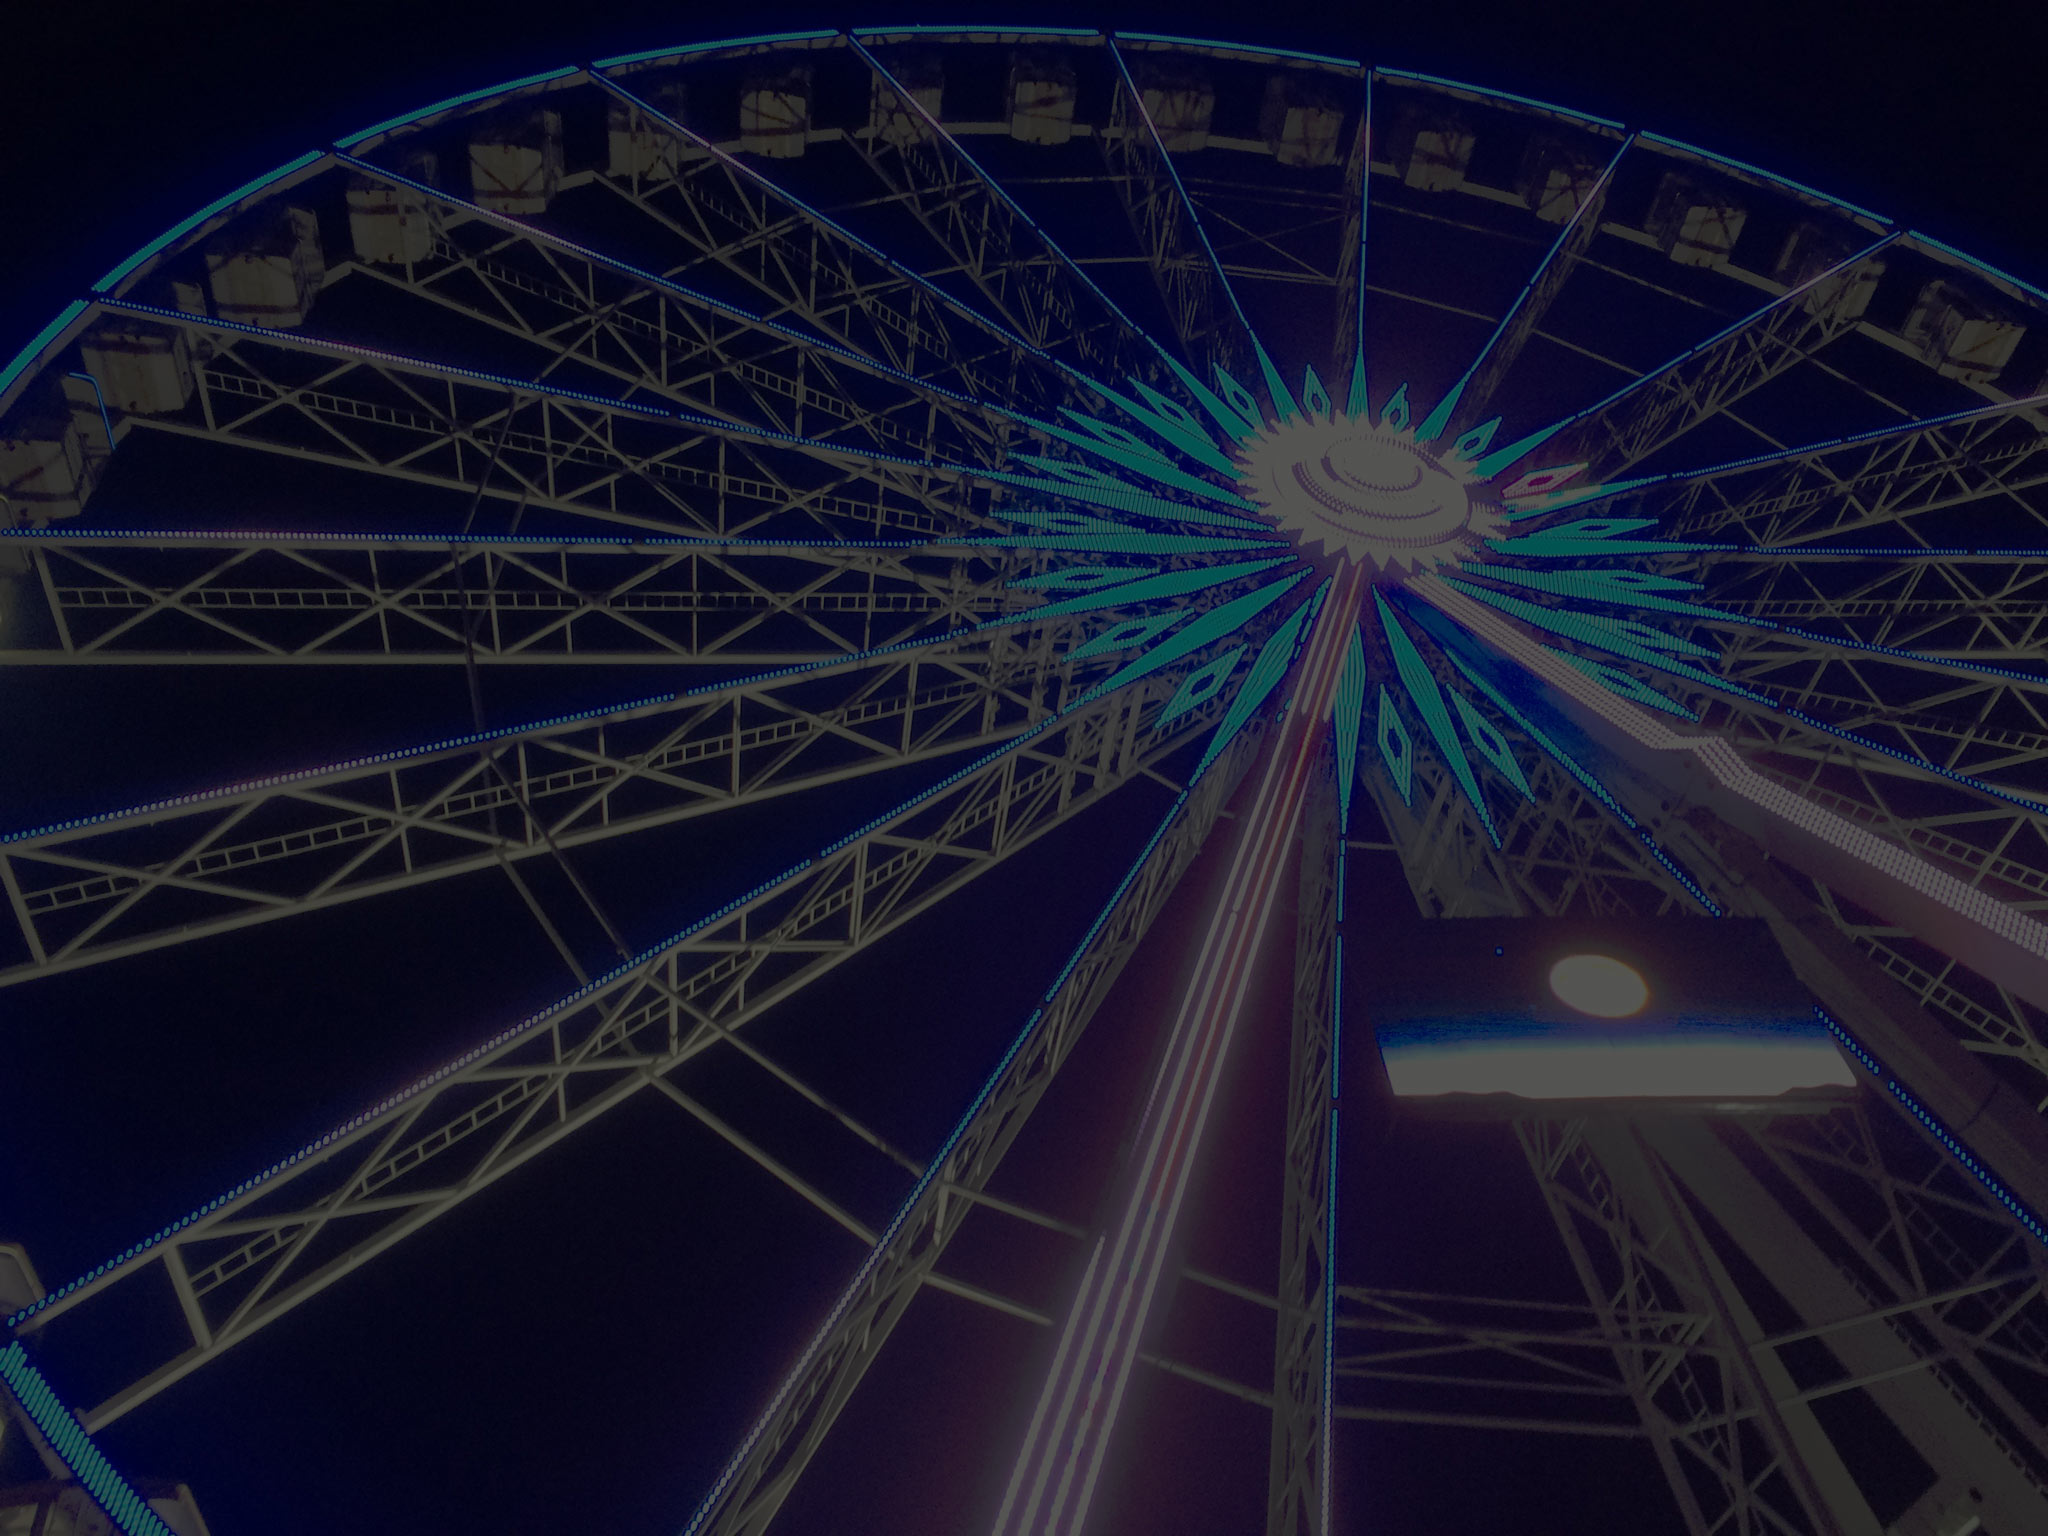
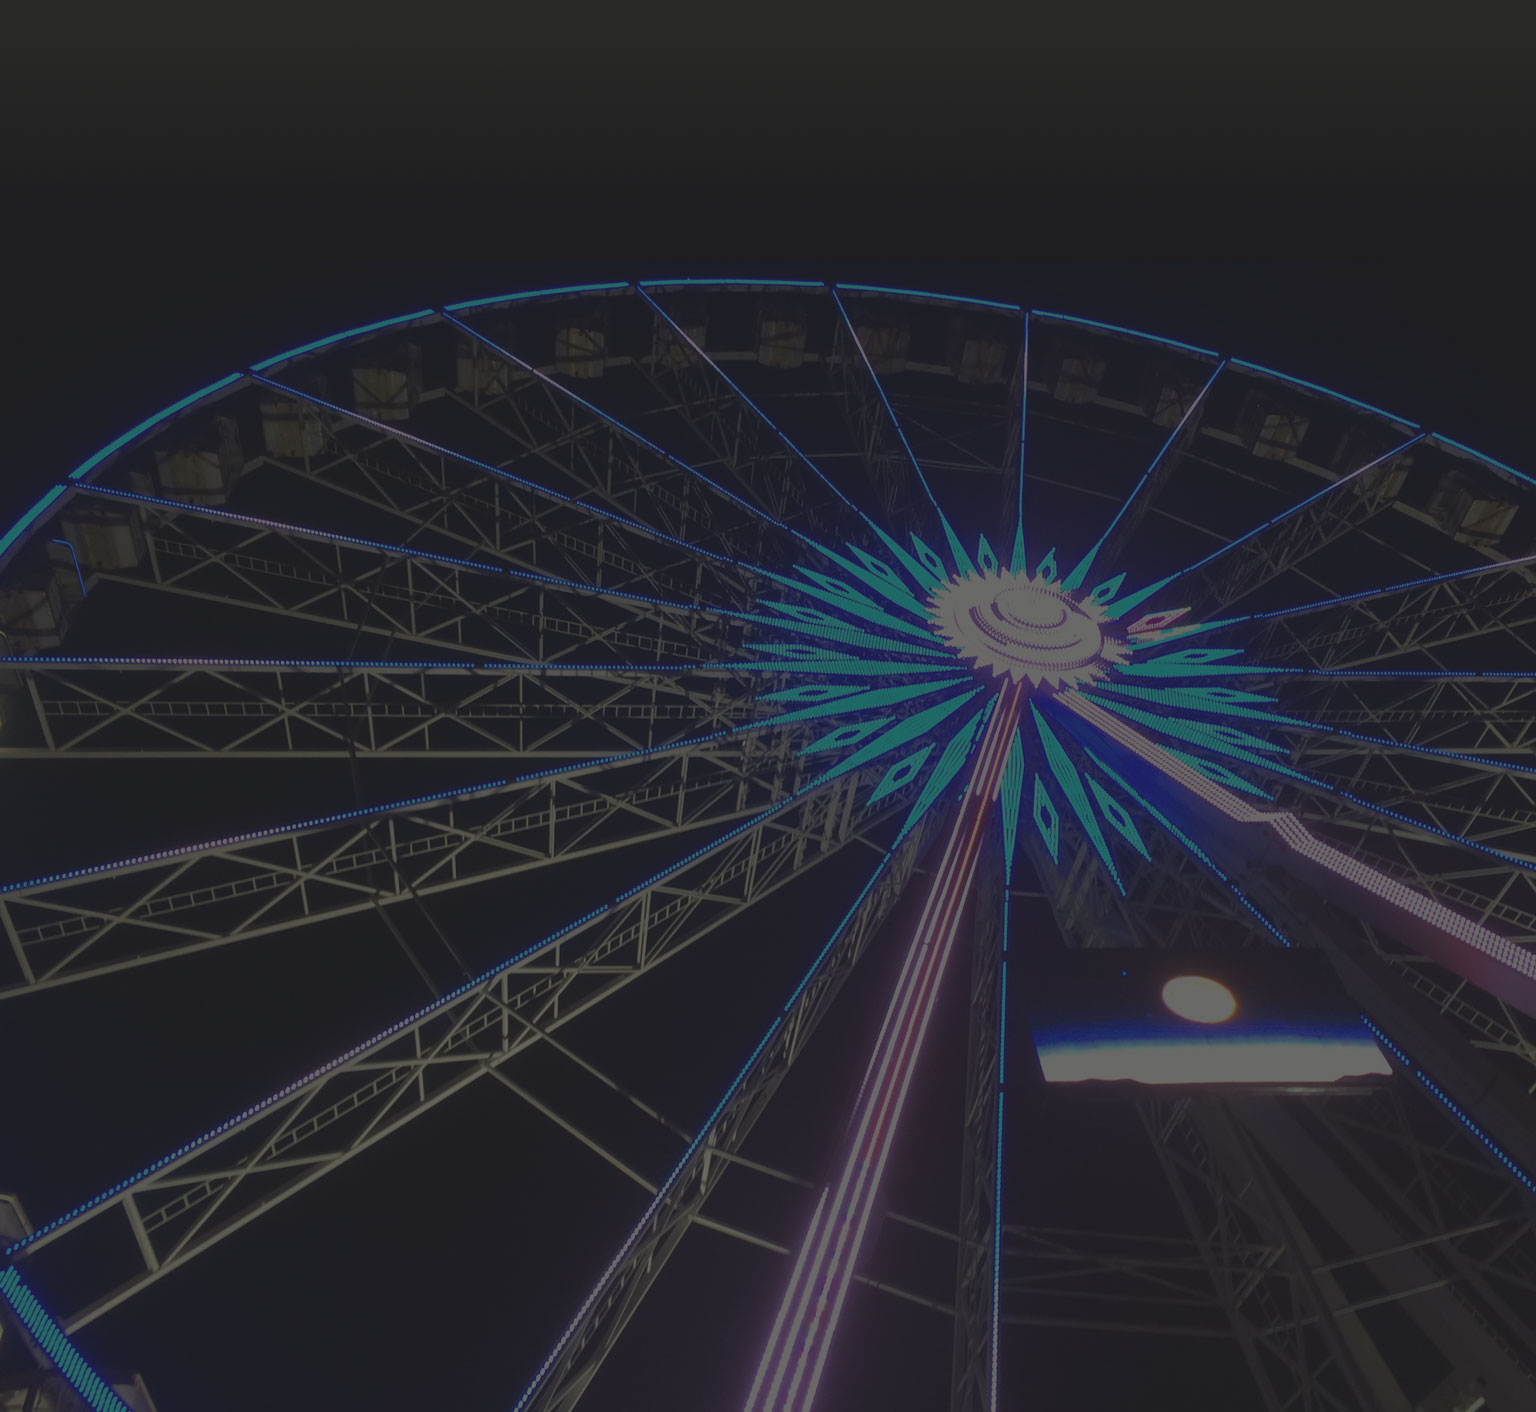
improve layout

diff --git a/css/main.css b/css/main.css
@@ -1,2 +1,2 @@
-body,html,ol,ul{margin:0;padding:0}a{text-decoration:none;color:unset}*{box-sizing:border-box}html{font:normal 16px normal Raleway,Helvetica Neue,Arial,sans-serif}h1{font-family:Playfair Display,Times New Roman,Times,serif;text-transform:uppercase}h1,h2{text-align:center}h2{font-family:Raleway,Helvetica Neue,Arial,sans-serif}nav ul{text-transform:uppercase;font-size:14px}body{color:ivory;background:linear-gradient(#292927,#000)}header{background-color:#8100df}nav{background-color:ivory}h1{color:ivory}h2{color:#cafa13}.vertical-center,header{display:-ms-flexbox;display:flex;-ms-flex-pack:center;justify-content:center}.vertical-center{-ms-flex-align:center;align-items:center}nav ul{color:#292927;list-style-type:none}nav ul li{display:inline-block;margin-left:8px;padding:4px}nav ul li:first-of-type{margin-left:0}.active{background-color:#292927;color:ivory;font-weight:700}body{height:100vh;display:-ms-flexbox;display:flex;-ms-flex-direction:column;flex-direction:column;-ms-flex-line-pack:center;align-content:center}main{-ms-flex:1;flex:1;-ms-flex-pack:start;justify-content:flex-start}main p{font-size:.8em;padding:0 8px}@media only screen and (min-width:374px){main p{font-size:.9em}}div#photograph{height:50vh;background:url(/img/wheel4.jpg) no-repeat top;opacity:.25;background-size:100%}@media only screen and (min-width:767px){@supports ((display:-ms-grid) or (display:grid)){body{display:-ms-grid;display:grid;-ms-grid-columns:40% 20% 40%;grid-template-columns:40% 20% 40%;-ms-grid-rows:10% 30% 30px 1fr;grid-template-rows:10% 30% 30px 1fr;-ms-flex-align:stretch;align-items:stretch;-ms-grid-column-align:stretch;justify-items:stretch;max-width:100vw}div#headercontainer{-ms-grid-column-span:3;-ms-grid-column:1;grid-column:1/span 3;-ms-grid-row-span:2;-ms-grid-row:1;grid-row:1/span 2;display:-ms-flexbox;display:flex;transform:skewX(50deg);transform-origin:left,bottom}div#headercontainer,header{-ms-flex-pack:end;justify-content:flex-end}header{transform:skewX(-50deg)}header h1{-ms-flex:1;flex:1;max-width:80%;padding-top:1.5em;padding-right:.3em;margin-top:0}nav{-ms-grid-column:3;grid-column:3;-ms-grid-row:3;grid-row:3;padding-bottom:5px;padding-top:5px}main{-ms-grid-column-span:3;-ms-grid-column:1;grid-column:1/span 3;-ms-grid-row-span:2;-ms-grid-row:4;grid-row:4/span 2;border:1px solid #32cd32;display:-ms-flexbox;display:flex;-ms-flex-direction:column;flex-direction:column}main section{max-width:33%}main section p{padding-left:10px;padding-right:10px}div#photograph{display:none}}}@media only screen and (min-width:767px){@supports ((display:-ms-grid) or (display:grid)){main,nav{background-color:#292927}main ul,nav ul{color:ivory}body{background:none;background-color:#292927}#headercontainer,h1{background-color:#8100df}div#photograph{background:none}main{background:url(/img/greenwheel.jpg) no-repeat top;background-size:cover}}}@media only screen and (min-width:767px){@supports ((display:-ms-grid) or (display:grid)){h1{font-size:4rem;font-weight:400;text-align:right}main p{font-size:1.2em}}}
+body,html,ol,ul{margin:0;padding:0}a{text-decoration:none;color:unset}*{box-sizing:border-box}html{font:normal 16px normal Raleway,Helvetica Neue,Arial,sans-serif}h1{font-family:Playfair Display,Times New Roman,Times,serif;text-transform:uppercase}h1,h2{text-align:center}h2{font-family:Raleway,Helvetica Neue,Arial,sans-serif}nav ul{text-transform:uppercase;font-size:14px}body{color:ivory;background:linear-gradient(#292927,#000)}header{background-color:#8100df}nav{background-color:ivory}h1{color:ivory}h2{color:#cafa13}.vertical-center,header{display:-ms-flexbox;display:flex;-ms-flex-pack:center;justify-content:center}.vertical-center{-ms-flex-align:center;align-items:center}nav ul{color:#292927;list-style-type:none}nav ul li{display:inline-block;margin-left:8px;padding:4px}nav ul li:first-of-type{margin-left:0}.active{background-color:#292927;color:ivory;font-weight:700}body{height:100vh;display:-ms-flexbox;display:flex;-ms-flex-direction:column;flex-direction:column;-ms-flex-line-pack:center;align-content:center}main{-ms-flex:1;flex:1;-ms-flex-pack:start;justify-content:flex-start}main p{font-size:.8em;padding:0 8px}@media only screen and (min-width:374px){main p{font-size:.9em}}div#photograph{height:50vh;background:url(/img/wheel4.jpg) no-repeat top;opacity:.25;background-size:100%}@media only screen and (min-width:767px){@supports ((display:-ms-grid) or (display:grid)){body{display:-ms-grid;display:grid;-ms-grid-columns:40% 20% 40%;grid-template-columns:40% 20% 40%;-ms-grid-rows:10% 40% 30px 1fr;grid-template-rows:10% 40% 30px 1fr;-ms-flex-align:stretch;align-items:stretch;-ms-grid-column-align:stretch;justify-items:stretch;max-width:100vw}div#headercontainer{-ms-grid-column-span:2;-ms-grid-column:1;grid-column:1/span 2;-ms-grid-row-span:2;-ms-grid-row:1;grid-row:1/span 2;-ms-flex-item-align:end;align-self:flex-end;display:-ms-flexbox;display:flex;-ms-flex-pack:end;justify-content:flex-end;height:100%;transform-origin:left top;transform:skewX(45deg);width:100%;z-index:-1}header{-ms-grid-column-span:2;-ms-grid-column:2;grid-column:2/span 2;-ms-grid-row-span:2;-ms-grid-row:1;grid-row:1/span 2;-ms-flex-item-align:start;align-self:flex-start;-ms-flex-pack:end;justify-content:flex-end}header h1{-ms-flex:1;flex:1;max-width:80%;padding-top:1.5em;margin-right:.3em;margin-top:0}nav{-ms-grid-column:3;grid-column:3;-ms-grid-row:3;grid-row:3;padding-bottom:5px;padding-top:5px}main{-ms-grid-column-span:3;-ms-grid-column:1;grid-column:1/span 3;-ms-grid-row-span:2;-ms-grid-row:4;grid-row:4/span 2;display:-ms-flexbox;display:flex;-ms-flex-direction:column;flex-direction:column}main section{max-width:33%}main section p{padding-left:10px;padding-right:10px}div#photograph{display:none}}}@media only screen and (min-width:767px){@supports ((display:-ms-grid) or (display:grid)){main,nav{background-color:#292927}main ul,nav ul{color:ivory}body{background:none;background-color:#292927}#headercontainer,h1{background-color:#8100df}div#photograph{background:none}main{background:url(/img/bluewheel.jpg) no-repeat top;background-size:cover}}}@media only screen and (min-width:767px){@supports ((display:-ms-grid) or (display:grid)){h1{font-size:4rem;font-weight:400;text-align:right}main p{font-size:1.1em}h2{display:none}}}
 /*# sourceMappingURL=main.css.map */

diff --git a/src/sass/_tablet.scss b/src/sass/_tablet.scss
@@ -8,30 +8,37 @@
 		body {
 			display: grid;
 			grid-template-columns: 40% 20% 40%;
-			grid-template-rows: 10% 30% 30px 1fr;
+			grid-template-rows: 10% 40% 30px 1fr;
 			align-items: stretch;
 			justify-items: stretch;
 			max-width: 100vw;
 		}
 
 		div#headercontainer {
-			grid-column: 1 / span 3;
+			grid-column: 1 / span 2;
 			grid-row: 1 / span 2;
+			align-self: flex-end;
 			display: flex;
 			justify-content: flex-end;
+			height: 100%;
+			transform-origin: left top;
 			transform: skewX($headerskew);
-			transform-origin: left, bottom;
+			width: 100%;
+			 z-index: -1;
+
 		}
 
 		header {
+			grid-column: 2 / span 2;
+			grid-row: 1 / span 2;
+			align-self: flex-start;
 					h1 {
 						flex: 1;
 						max-width: 80%;
 						padding-top: 1.5em;
-						padding-right: 0.3em;
+						margin-right: 0.3em;
 						margin-top: 0;
 					}
-				transform: skewX(-$headerskew);
 				justify-content: flex-end;
 		}
 
@@ -46,7 +53,6 @@
 		main {
 			grid-column: 1 / span 3;
 			grid-row: 4 / span 2;
-			border: 1px solid limegreen;
 			display: flex;
 			flex-direction: column;
 		}
@@ -78,7 +84,6 @@
 		nav, main {
 			background-color: $bg;
 				ul {color: $text-col;}
-
 		}
 		body {
 			background: none;
@@ -86,13 +91,18 @@
 		}
 		#headercontainer, h1 {
 			background-color: $header;
+			// overflow: hidden;
 		}
 		div#photograph {
 			background: none;
 		}
 		main {
-			background: url('/img/greenwheel.jpg') no-repeat top;
+			background: url('/img/bluewheel.jpg') no-repeat top;
 			background-size: cover;
+			
+				section {
+
+				}
 		}
 	}
 }
@@ -105,7 +115,10 @@
 			text-align: right;
 		}
 		main p {
-			font-size: 1.2em;
+			font-size: 1.1em;
+		}
+		h2 {
+			display: none;
 		}
 	}
 }

diff --git a/index.html b/index.html
@@ -8,12 +8,12 @@
 	<link rel="stylesheet" type="text/css" href="css/main.css">
 </head>
 <body>
-
 <div id="headercontainer">
+</div>
 	<header>
 		<h1>Nick Playfair</h1>
 	</header>
-</div>
+
 
 <nav role="navigation" class="vertical-center">
 	<ul id="navlist">

diff --git a/src/sass/_variables.scss b/src/sass/_variables.scss
@@ -34,4 +34,4 @@ $desktop: 900px;
 
 // Layout
 
-$headerskew: 50deg;
+$headerskew: 45deg;
